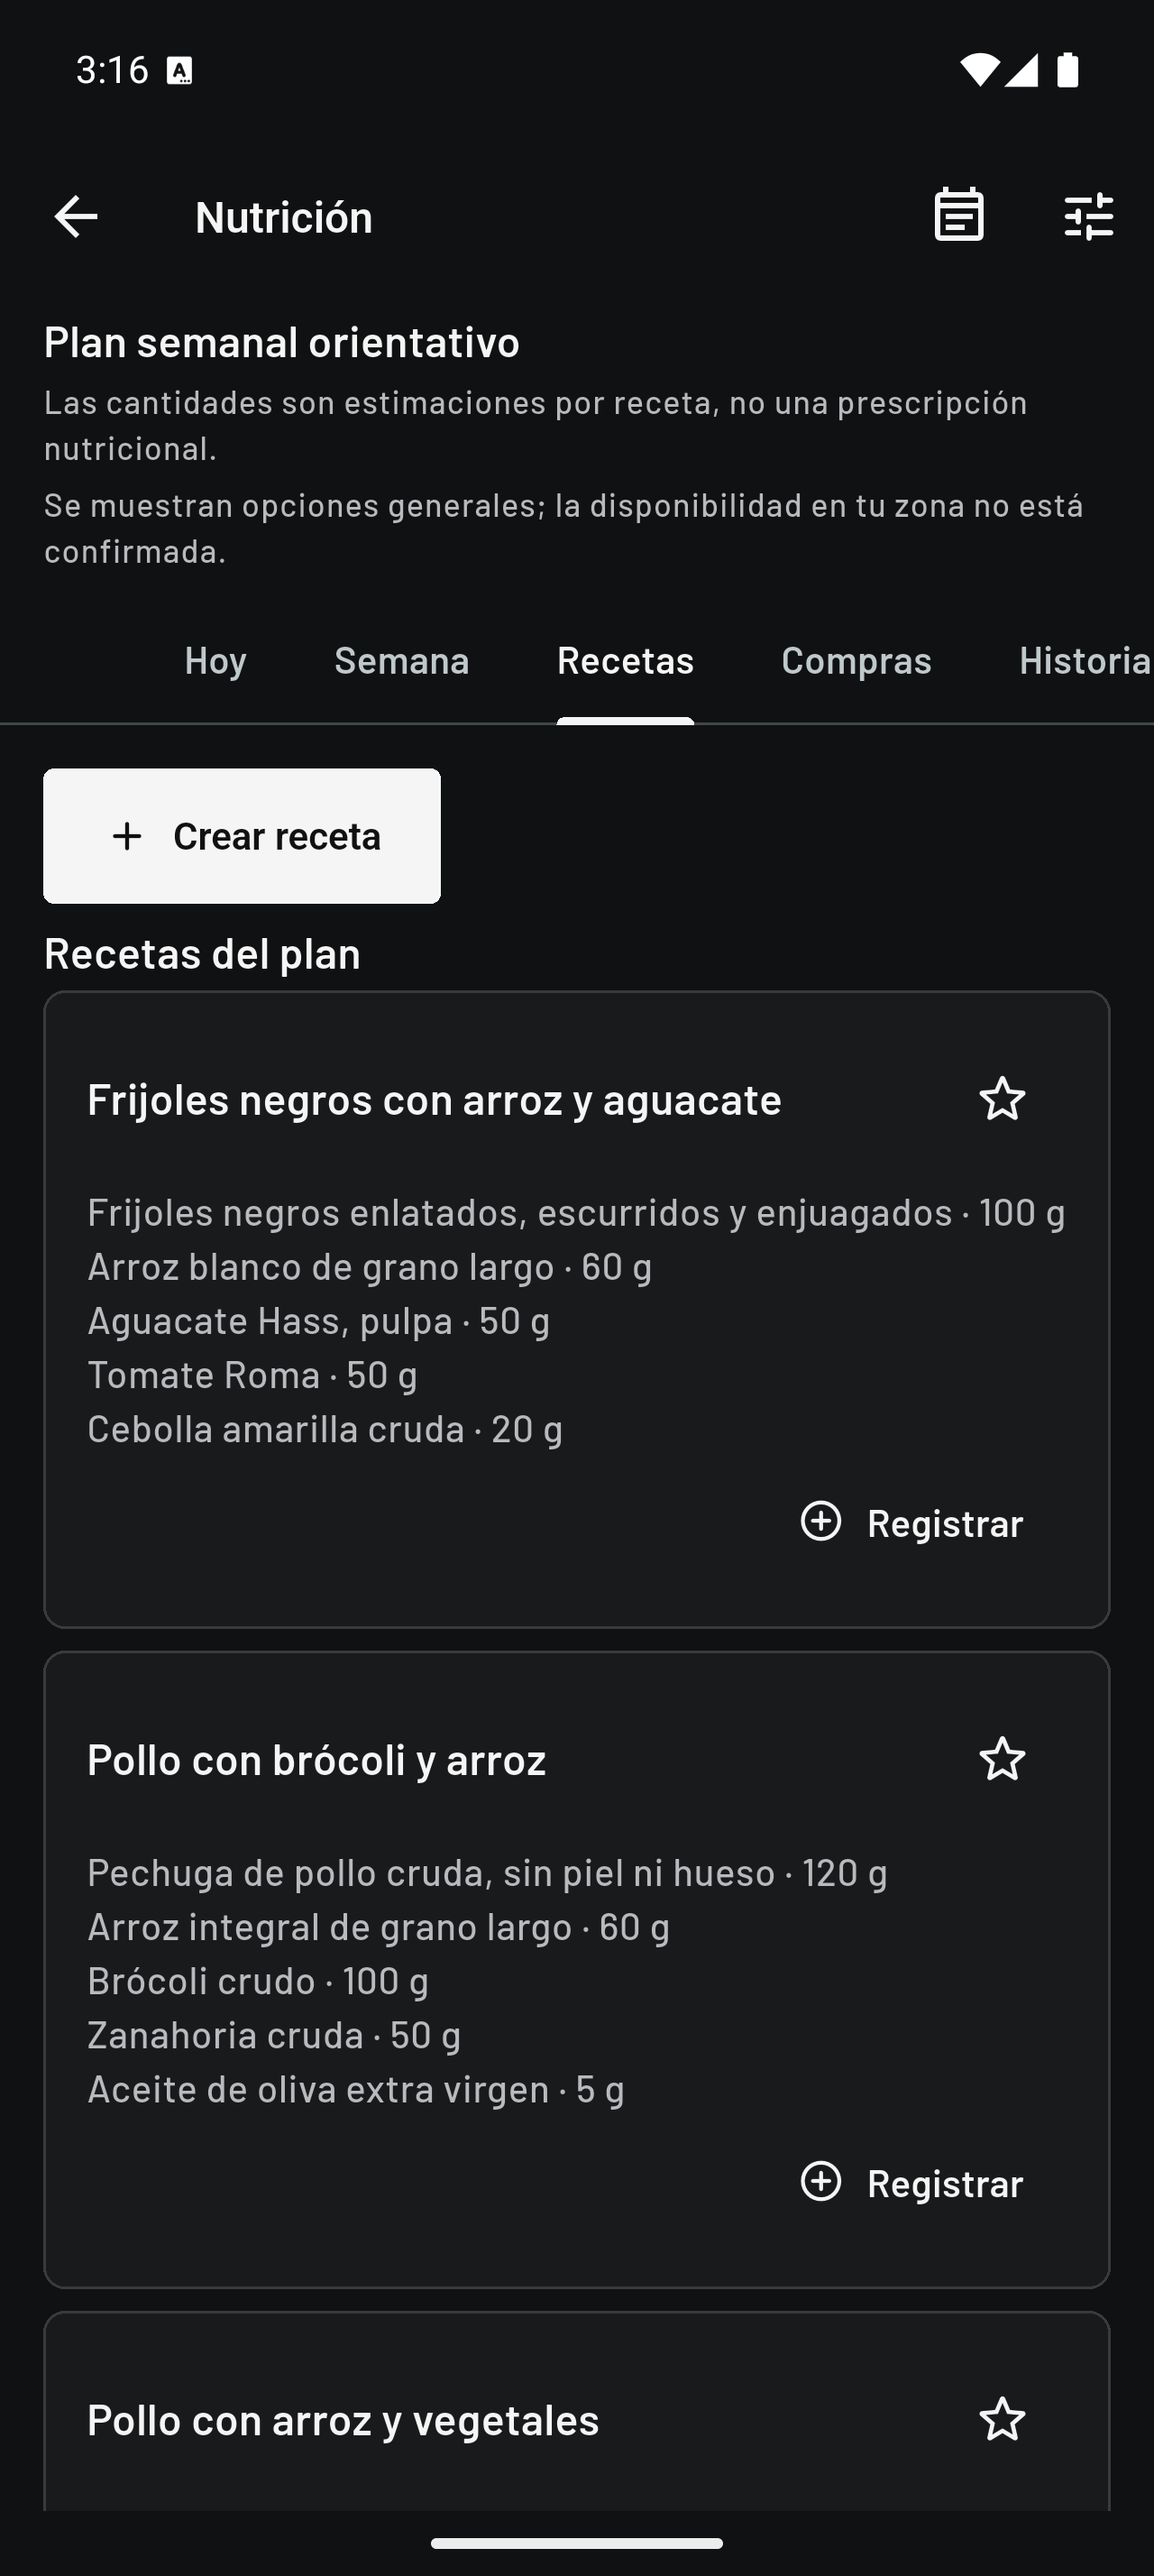
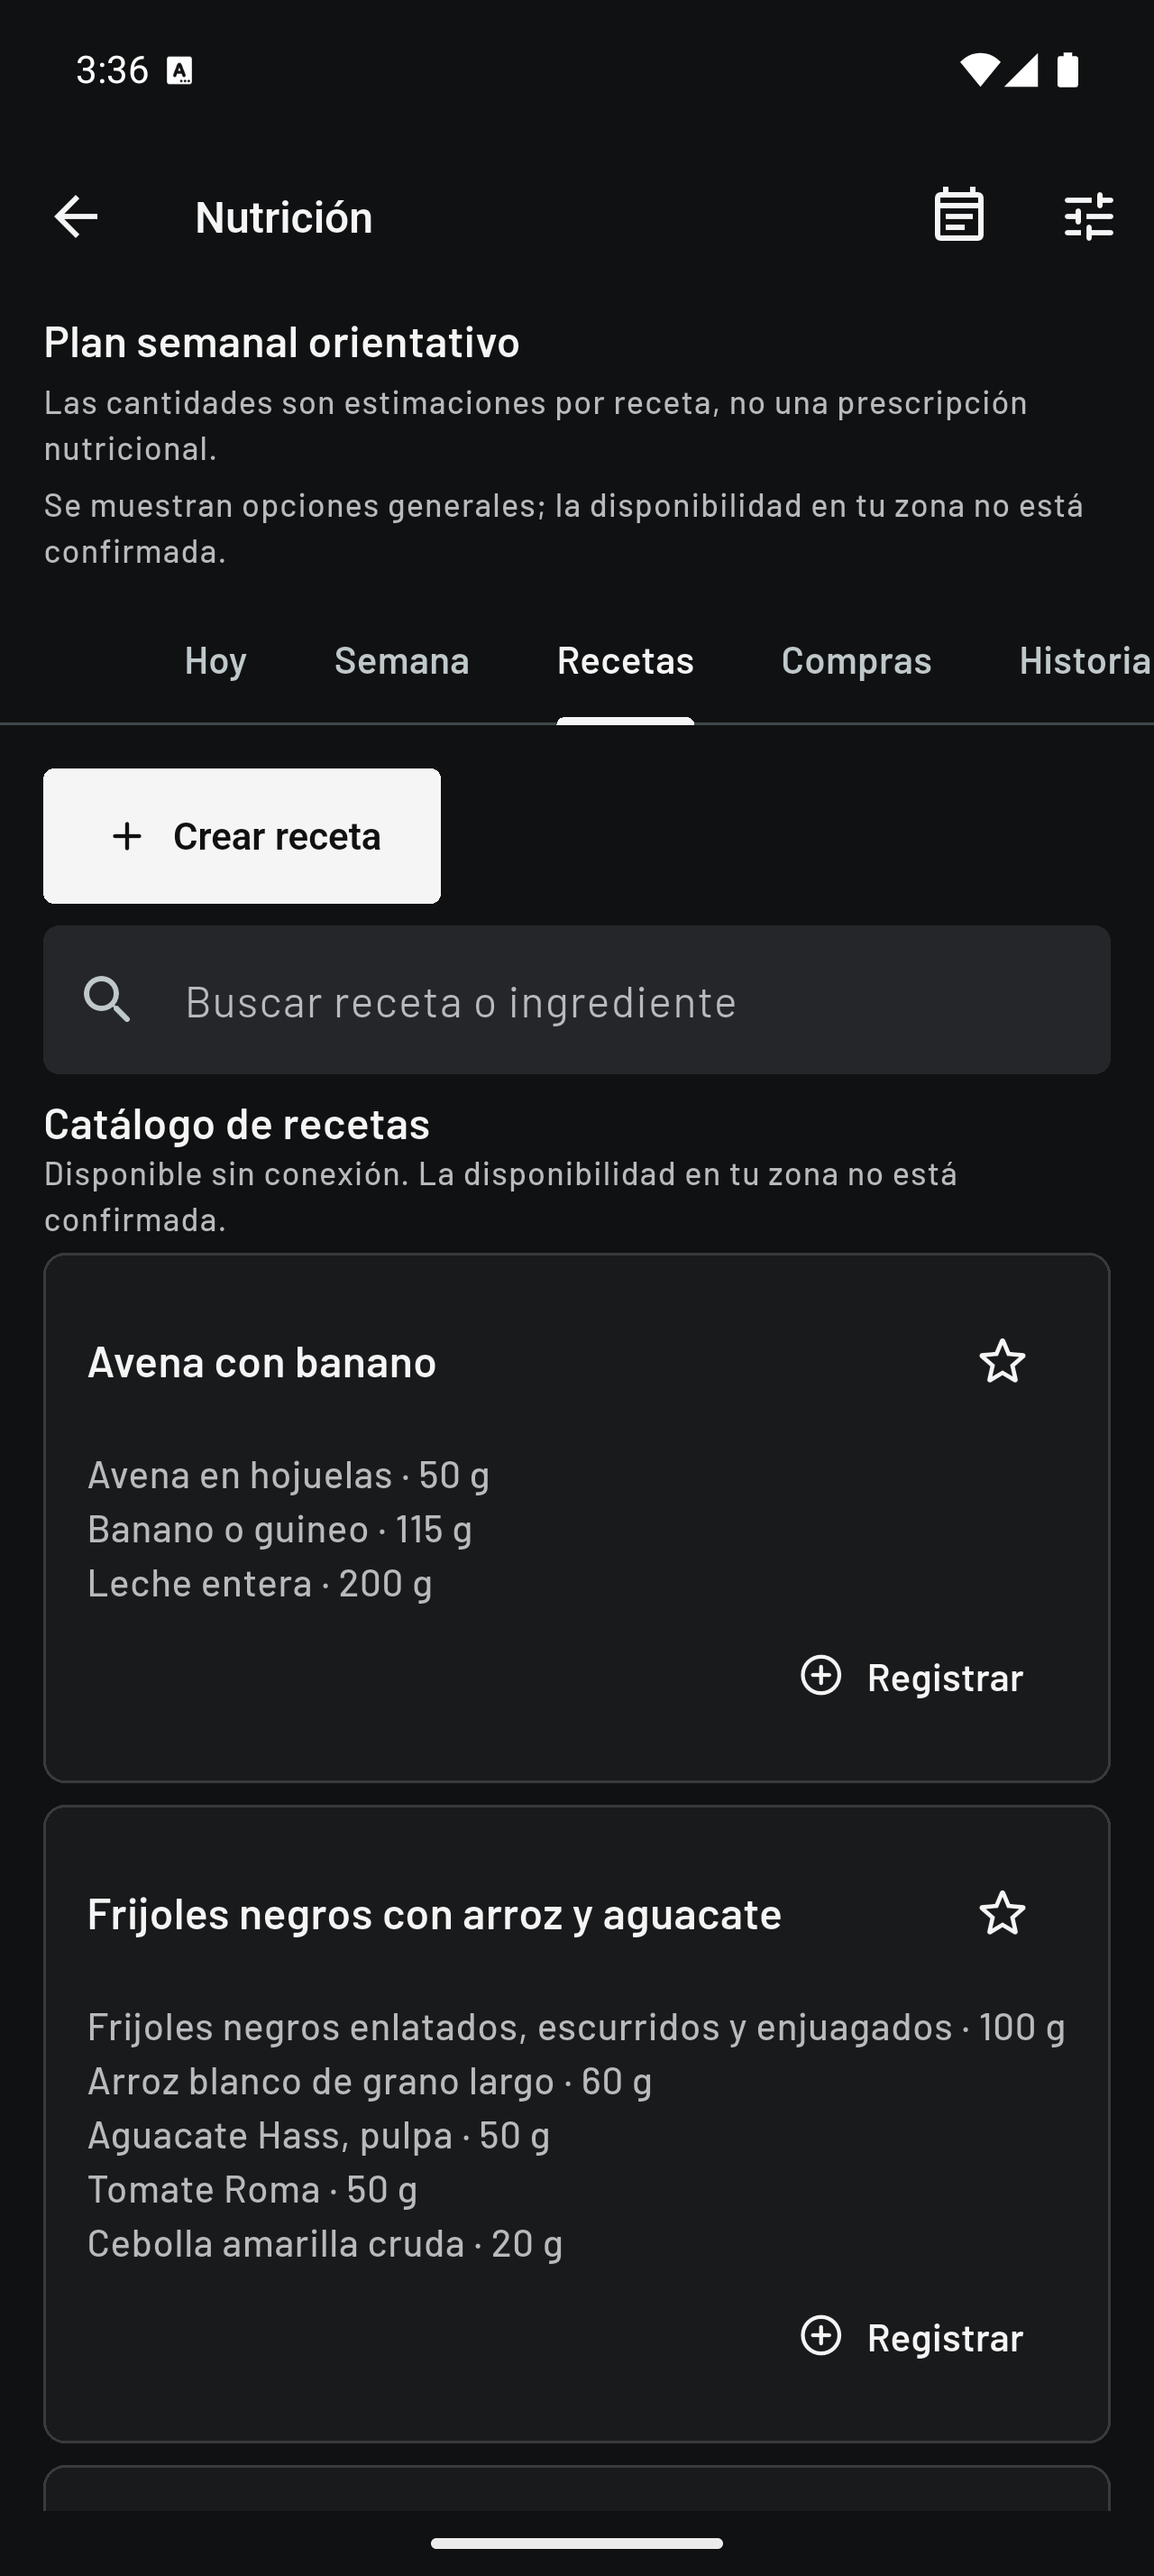
docs(nutrition): refresh recipe screenshots

diff --git a/docs/nutrition/evidence-148/README.md b/docs/nutrition/evidence-148/README.md
@@ -1,5 +1,5 @@
 # Evidencia visual de la issue #148
 
-Capturas tomadas de la app Android instalada en el emulador local. Las imágenes `recipes-light.png` y `recipes-dark.png` muestran Nutrición > Recetas en ambos temas; `recipe-editor-light.png` muestra el editor de receta, y `recipe-ingredient-picker.png` el selector durante la edición. `nutrition-plan-light.png` muestra el plan semanal. `nutrition-profile-light.png` y `nutrition-profile-dark.png` corresponden al perfil nutricional.
+Capturas tomadas de la app Android instalada en el emulador local. `recipes-light.png` y `recipes-dark.png` muestran Nutrición > Recetas en los dos temas; `recipe-editor-light.png` muestra el editor, `recipe-editor-keyboard.png` muestra el teclado en ese flujo y `nutrition-plan-light.png` muestra el plan semanal. `nutrition-profile-light.png` y `nutrition-profile-dark.png` corresponden al perfil nutricional.
 
-Las capturas no demuestran validación en iOS, orientación, VoiceOver ni TalkBack. Esa validación sigue pendiente; no hay un entorno iOS disponible en esta estación Windows. La disponibilidad regional del catálogo permanece marcada como desconocida.
+Las capturas no demuestran validación de orientación, VoiceOver ni TalkBack. Esa validación sigue pendiente; no hay un entorno iOS disponible en esta estación Windows. La disponibilidad regional del catálogo permanece marcada como desconocida.
